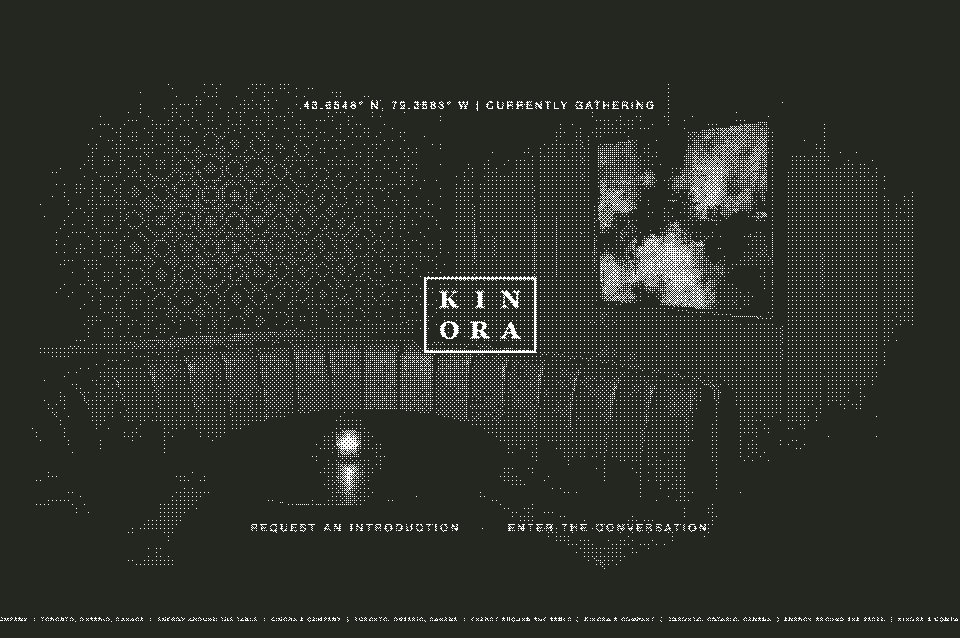
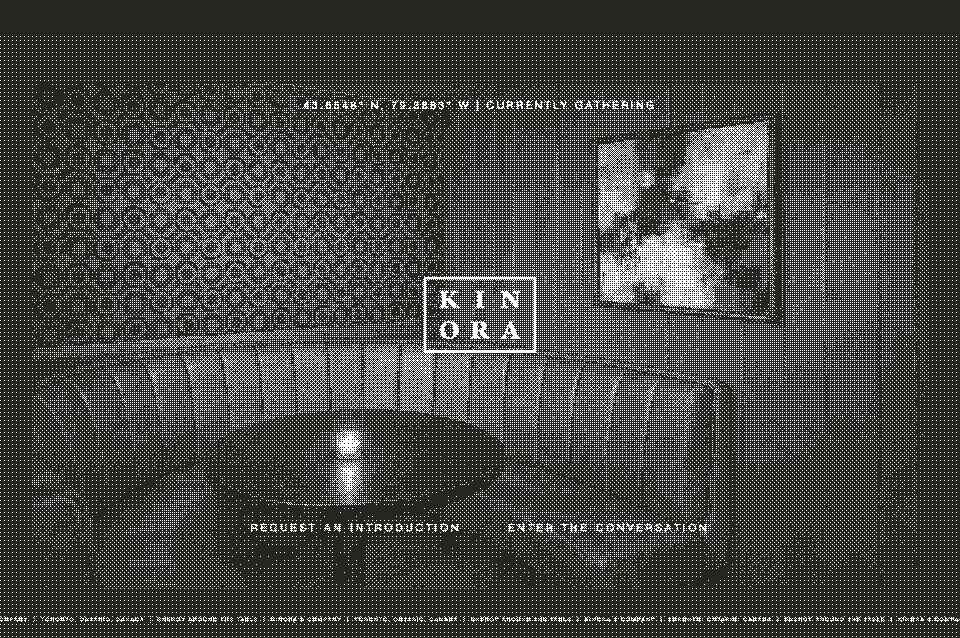
Design pass: IBM Plex Mono, fewer receipt gags, quieter chrome
- Type: swap Courier New for IBM Plex Mono, a mono drawn for screens.
- Copy: cut the extra receipt jokes (ORDER #0001, "A small record of
  things I've built", "Keep for your records", the printer's model and
  slogan lines, "No. 001" and the duplicate "come back" sign-off). The
  printer readout, totals, stamp, barcode and punch card stay.
- Chrome: the printer drops its base strip (139px -> 109px) and tucks
  down to 70px once you start reading; the punch card now scrolls away
  with the top of the desk instead of staying pinned.
- Projects: every print uses one 16:9 frame, and the Kinora screenshot
  is re-dithered lighter (thermalize.mjs gains a --lift option) so it
  no longer prints as a solid black block.
- Contrast: darken the desk nav label, nav numbers and punch card note;
  every text element now passes WCAG AA.

Claude-Session: https://claude.ai/code/session_01AbLXh6HHWHJ1tadboccCuc

diff --git a/src/components/ReceiptPortfolio.css b/src/components/ReceiptPortfolio.css
@@ -9,10 +9,10 @@
 html {
   scroll-behavior: smooth;
   scroll-padding-top: 32px;
-  scroll-padding-bottom: 160px;
+  scroll-padding-bottom: 130px;
 }
 body {
-  font-family: "Courier New", Courier, monospace;
+  font-family: "IBM Plex Mono", "Courier New", monospace;
   color: var(--ink);
 }
 ::selection {
@@ -37,7 +37,7 @@ a {
   position: relative;
   isolation: isolate;
   min-height: 100vh;
-  padding: 106px 24px 205px;
+  padding: 106px 24px 116px;
   background:
     radial-gradient(ellipse at 50% 25%, #d4dde180, transparent 65%), var(--desk);
 }
@@ -95,7 +95,7 @@ a {
   font-size: 12px;
   letter-spacing: 0.14em;
   margin-bottom: 22px;
-  opacity: 0.8;
+  color: #22333f;
 }
 .receipt-nav a {
   display: flex;
@@ -104,19 +104,13 @@ a {
   text-decoration: none;
 }
 .receipt-nav a span {
-  opacity: 0.6;
+  color: #2b3e4b;
   font-size: 12px;
-}
-.nav-footnote {
-  display: block;
-  margin-top: 55px;
-  font-size: 11px;
-  letter-spacing: 0.12em;
 }
 /* A café punch card left on the desk beside the receipt. The three punched
    holes are real cut-outs (masked), so the desk shows through them. */
 .desk-note {
-  position: fixed;
+  position: absolute;
   left: calc(50% + 432px);
   top: 262px;
   transform: rotate(-5deg);
@@ -182,7 +176,7 @@ a {
   bottom: 14px;
   font-size: 10px;
   letter-spacing: 0.04em;
-  color: #4e5147b3;
+  color: var(--muted-ink);
 }
 .receipt-paper {
   position: relative;
@@ -282,8 +276,9 @@ a {
   border-top: 1px dashed #79786b;
   border-bottom: 1px dashed #79786b;
   display: flex;
-  justify-content: space-between;
+  justify-content: center;
   font-size: 12px;
+  letter-spacing: 0.08em;
 }
 .receipt-welcome {
   margin: 20px 0 18px;
@@ -322,7 +317,7 @@ a {
 }
 .about-title {
   font:
-    bold 24px/1.2 "Courier New",
+    bold 24px/1.2 "IBM Plex Mono",
     monospace;
   letter-spacing: -1.3px;
 }
@@ -498,7 +493,7 @@ a {
 }
 .contact-total strong {
   font:
-    bold 33px/1.1 "Courier New",
+    bold 33px/1.1 "IBM Plex Mono",
     monospace;
   letter-spacing: -1.8px;
 }
@@ -575,11 +570,6 @@ a {
   line-height: 1.9;
   margin: 12px 0 8px;
 }
-.receipt-signoff span {
-  display: block;
-  margin-top: 13px;
-  font-size: 12px;
-}
 .printer {
   position: fixed;
   bottom: 0;
@@ -587,8 +577,9 @@ a {
   transform: translateX(-50%);
   width: min(880px, calc(100% - 24px));
   z-index: 10;
-  height: 139px;
+  height: 109px;
   padding-top: 19px;
+  transition: height 220ms ease-out;
   background: linear-gradient(#e5e3da, #cac9c0);
   border-radius: 22px 22px 0 0;
   box-shadow:
@@ -621,6 +612,9 @@ a {
 .printer-body {
   height: 89px;
   padding: 20px 34px 11px;
+  transition:
+    height 220ms ease-out,
+    padding 220ms ease-out;
   display: flex;
   align-items: center;
   justify-content: space-between;
@@ -639,16 +633,18 @@ a {
   font-size: 39px;
   letter-spacing: -0.14em;
   line-height: 1;
+  transition: font-size 220ms ease-out;
 }
-.printer-brand > span {
-  font-size: 8px;
-  letter-spacing: 0.09em;
+.printer.is-compact {
+  height: 70px;
 }
-.printer-brand small {
-  display: block;
-  font-size: 7px;
-  margin-top: 7px;
-  color: #71756b;
+.is-compact .printer-body {
+  height: 51px;
+  padding-top: 8px;
+  padding-bottom: 6px;
+}
+.is-compact .printer-brand > strong {
+  font-size: 26px;
 }
 .printer-controls {
   display: flex;
@@ -702,26 +698,6 @@ a {
   transform: translateY(2px);
   box-shadow: 0 1px 0 #aaada2;
 }
-.printer-base {
-  display: flex;
-  justify-content: space-between;
-  align-items: center;
-  height: 30px;
-  padding: 0 35px;
-  color: #686d61;
-  font-size: 7px;
-  letter-spacing: 0.13em;
-}
-.printer-base > span:first-child,
-.printer-base > span:last-child {
-  width: 34px;
-  height: 6px;
-  background: repeating-linear-gradient(
-    90deg,
-    #8f9386 0 2px,
-    transparent 2px 5px
-  );
-}
 .skip-link {
   position: fixed;
   top: -80px;
@@ -752,10 +728,10 @@ a {
 }
 @media (max-width: 640px) {
   html {
-    scroll-padding-bottom: 136px;
+    scroll-padding-bottom: 110px;
   }
   .receipt-scene {
-    padding: 94px 14px 168px;
+    padding: 94px 14px 104px;
   }
   .desk-header {
     top: 22px;
@@ -801,7 +777,7 @@ a {
     font-size: 14px;
   }
   .printer {
-    height: 116px;
+    height: 91px;
     width: calc(100% - 12px);
     border-radius: 15px 15px 0 0;
   }
@@ -819,13 +795,16 @@ a {
   .printer-brand > strong {
     font-size: 29px;
   }
-  .printer-brand > span {
-    font-size: 6px;
-    max-width: 77px;
-    line-height: 1.5;
+  .printer.is-compact {
+    height: 64px;
   }
-  .printer-brand small {
-    display: none;
+  .is-compact .printer-body {
+    height: 45px;
+    padding-top: 7px;
+    padding-bottom: 5px;
+  }
+  .is-compact .printer-brand > strong {
+    font-size: 22px;
   }
   .printer-controls {
     gap: 9px;
@@ -839,12 +818,6 @@ a {
     font-size: 8px;
     padding: 10px;
   }
-  .printer-base {
-    height: 25px;
-    padding: 0 20px;
-    font-size: 6px;
-    letter-spacing: 0.04em;
-  }
   .contact-total strong {
     font-size: 29px;
   }
@@ -852,8 +825,7 @@ a {
   .receipt-order {
     gap: 12px;
   }
-  .receipt-topline > span:last-child,
-  .receipt-order > span:last-child {
+  .receipt-topline > span:last-child {
     text-align: right;
   }
   .contact-links {
@@ -865,9 +837,6 @@ a {
   .receipt-inner {
     padding-left: 19px;
     padding-right: 19px;
-  }
-  .printer-brand > span {
-    display: none;
   }
   .receipt-name {
     font-size: 12px;
@@ -885,7 +854,7 @@ a {
   font-weight: bold;
 }
 .receipt-nav a[aria-current="location"] > span {
-  opacity: 1;
+  color: inherit;
 }
 .project-introduction {
   display: flex;
@@ -914,6 +883,9 @@ a {
   display: block;
   width: 100%;
   height: auto;
+  aspect-ratio: 16 / 9;
+  object-fit: cover;
+  object-position: top;
 }
 .project-print figcaption {
   display: flex;

diff --git a/src/components/ReceiptPortfolio.tsx b/src/components/ReceiptPortfolio.tsx
@@ -36,11 +36,14 @@ function ReceiptHeading({ number, title }: { number: string; title: string }) {
 function Printer() {
   const [progress, setProgress] = useState(0);
   const [feeding, setFeeding] = useState(false);
+  // Full-size printer on arrival; it tucks down once you start reading.
+  const [compact, setCompact] = useState(false);
   useEffect(() => {
     let frame = 0;
     let timer: ReturnType<typeof setTimeout>;
     const measure = () => {
       const max = document.documentElement.scrollHeight - window.innerHeight;
+      setCompact(window.scrollY > 120);
       setProgress(
         max > 0
           ? Math.min(100, Math.max(0, Math.round((window.scrollY / max) * 100)))
@@ -86,16 +89,13 @@ function Printer() {
 
   return (
     <footer
-      className={`printer ${feeding ? "is-feeding" : ""}`}
+      className={`printer${feeding ? " is-feeding" : ""}${compact ? " is-compact" : ""}`}
       aria-label="Receipt printer"
     >
       <div className="printer-slot" aria-hidden="true" />
       <div className="printer-body">
         <div className="printer-brand">
           <strong>bb.</strong>
-          <span>
-            THE LITTLE IDEA PRINTER<small>MODEL NO. 001 / TORONTO</small>
-          </span>
         </div>
         <div className="printer-controls">
           <div className="printer-display">
@@ -122,10 +122,6 @@ function Printer() {
             {progress === 100 ? "REWIND ↑" : "FEED ↓"}
           </button>
         </div>
-      </div>
-      <div className="printer-base" aria-hidden="true">
-        <span /> <span>GOOD THINGS TAKE A LITTLE PAPER.</span>
-        <span />
       </div>
     </footer>
   );
@@ -170,11 +166,6 @@ export default function ReceiptPortfolio() {
         <a href="#top" aria-label="Bella's Bytes home">
           bb<span>✳</span>
         </a>
-        <span>
-          A SMALL RECORD OF
-          <br />
-          THINGS I'VE BUILT.
-        </span>
         <a href={resume} target="_blank" rel="noreferrer">
           RÉSUMÉ ↗
         </a>
@@ -191,7 +182,6 @@ export default function ReceiptPortfolio() {
             {s.label}
           </a>
         ))}
-        <span className="nav-footnote">KEEP FOR YOUR RECORDS.</span>
       </nav>
       <aside className="desk-note" aria-hidden="true">
         <div className="coffee-card">
@@ -231,7 +221,6 @@ export default function ReceiptPortfolio() {
               I build the infrastructure and tools that help teams ship faster.
             </p>
             <div className="receipt-order">
-              <span>ORDER #0001</span>
               <span>DEVOPS / INFRA / AI</span>
             </div>
             <p className="receipt-welcome">
@@ -576,11 +565,9 @@ export default function ReceiptPortfolio() {
             </div>
             <Barcode />
             <p className="receipt-signoff">
-              NO. 001 — ISABELLA NGUYEN — {new Date().getFullYear()}
+              ISABELLA NGUYEN — {new Date().getFullYear()}
               <br />
               MADE WITH CARE IN TORONTO.
-              <br />
-              <span>Come back soon. There’s always more in the works.</span>
             </p>
           </section>
         </div>

diff --git a/public/index.html b/public/index.html
@@ -20,11 +20,11 @@
     <link rel="apple-touch-icon" href="%PUBLIC_URL%/icon.png" />
     <link rel="manifest" href="%PUBLIC_URL%/manifest.json" />
 
-    <!-- Body font -->
+    <!-- Receipt typeface -->
     <link rel="preconnect" href="https://fonts.googleapis.com" />
     <link rel="preconnect" href="https://fonts.gstatic.com" crossorigin />
     <link
-      href="https://fonts.googleapis.com/css2?family=DM+Sans:ital,wght@0,300;0,400;0,500;0,700;1,400&display=swap"
+      href="https://fonts.googleapis.com/css2?family=IBM+Plex+Mono:ital,wght@0,400;0,500;0,600;0,700;1,400&display=swap"
       rel="stylesheet"
     />
 
